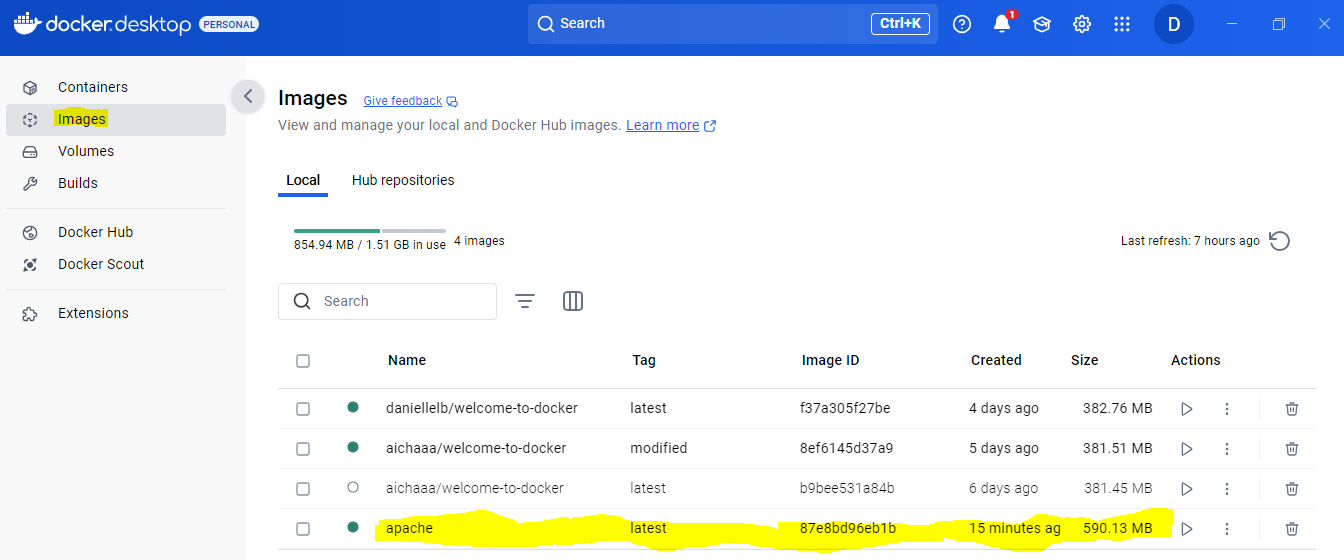
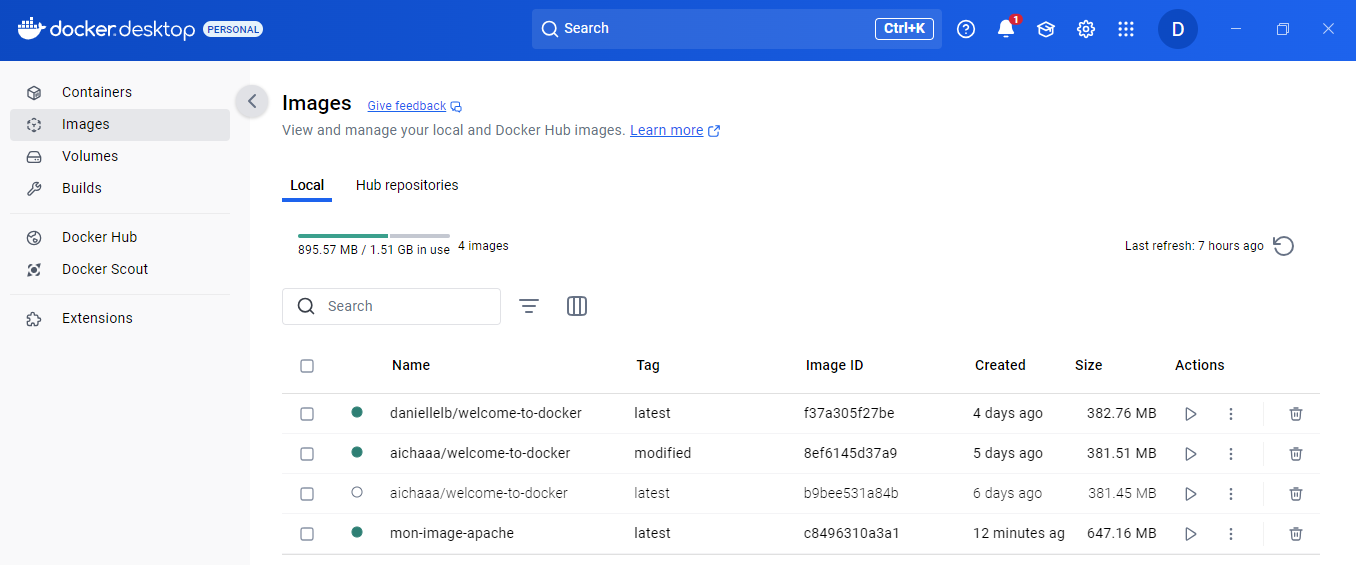
Fin du Job04. Arrêt du container. Ajout des images et corrections du Markdown.

diff --git a/Jour02_Job04_Docker_DLB/README_Job04.md b/Jour02_Job04_Docker_DLB/README_Job04.md
@@ -2,7 +2,7 @@
 Welcome to Docker - Part 4 // Docker Apache - Tout savoir sur le serveur avec phpinfo();  
 [ou, comment inclure dans une image docker un serveur apache pour lancer une commande php simple.]
 --------------------------------------------
-#### **A)** Afficher les informations du serveur lancé dans docker du serveur apache inclus Dans visual studio    
+#### **A)** Afficher les informations du serveur apache inclus dans visual studio    
 
 Créer un fichier index.php affichant les info sur le serveur apache (trouver la commande php pour cela, il n'y aura que la balise php et une commande qui ne fait que 10 caractères dans le fichier).  
 
@@ -18,28 +18,33 @@ Ce dockerfile doit générer un environnement apache pour afficher cette page. O
 
 > => le serveur phpinfo();  
 
-![text](Dockerfile)  
+![alt text](Screenshots/dockerfile.PNG)  
 
 
 **3)** Créer l’image et le container 
 
 > L'image  
 docker build -t apache .  
+![alt text](Screenshots/cmd_start_build.PNG)  
+
 ![alt text](Screenshots/apache_image_building.png)  
 
 ![alt text](Screenshots/apache_image_desktop.png)  
 
 > Le container  
-docker run -d -p 8080:80 --name mon-serveur-apache apache  
-
-![alt text](Screenshots/container_within_apache.PNG)  
+docker run -d -p 8080:80 --name mon-container-apache mon-image-apache  
 
 ![alt text](Screenshots/container_within_apache_desktop.PNG)  
 
+![alt text](Screenshots/container_ps.PNG)  
+
 **4)** Faites tourner le container  
 Ouvrir le localhost 8080  
-
-
+![alt text](Screenshots/localhost8080.PNG)  
 
 
 **5)** Stopper le container  
+docker stop <id container> (ou nom container)  
+
+![alt text](Screenshots/stop_container.PNG)  
+
